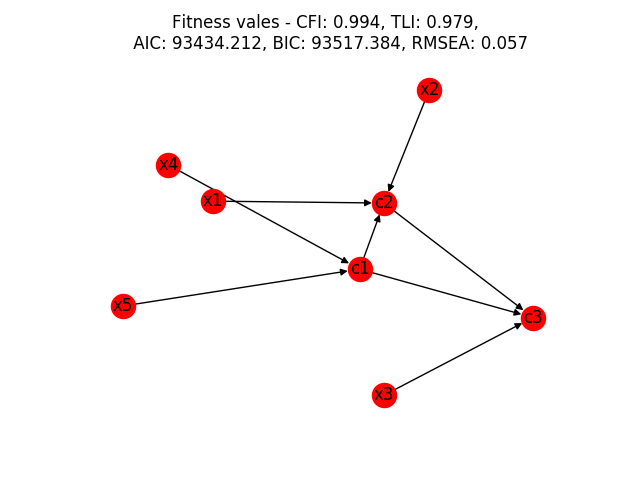
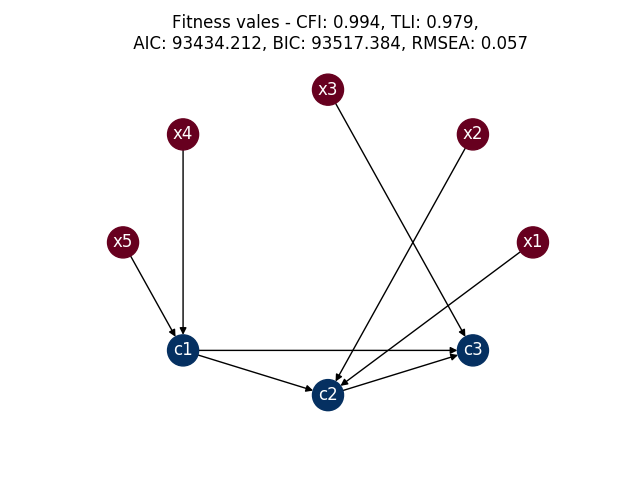
graphs beautified, comments added

diff --git a/src/python/util.py b/src/python/util.py
@@ -8,10 +8,18 @@ import matplotlib.pyplot as plt
 from evaluate import *
 import random
 from copy import deepcopy
-from deap.tools import HallOfFame
+from deap.tools import HallOfFame, Statistics, MultiStatistics
 import itertools
+import numpy as np
+import pandas as pd
 
 def extract_model(individual):
+    """ Convert netwrokx graph to 'lavaan' specific SEM model string
+
+    :param individual: an instance of individual (networkx graph)
+    :return: string,
+        lavaan specific model description
+    """
     measurement_model = []
     structural_model = []
     for node in individual._pred:
@@ -35,6 +43,13 @@ def extract_model(individual):
 
 
 def extract_fitness(fitness_str):
+    """ Parse results from fitness string
+
+    :param fitness_str: String
+        String received from R
+    :return: tuple
+        fitness values as a tuple
+    """
     fitness = re.findall("\d+\.\d+", fitness_str)
     if fitness:
         fitness = [float(i) for i in fitness]
@@ -42,13 +57,20 @@ def extract_fitness(fitness_str):
 
 
 def compose_SEM(individual):
+    """ Plot / save an individual (networkx graph) using plt
+    Future Work: make graph generation dynamic
+
+    :param individual: an instance of individual (networkx graph)
+    :return: None
+    """
     if isinstance(individual, HallOfFame):
         for i, ind in enumerate(individual):
             fig = plt.figure()
             plt.title('Fitness vales - CFI: {}, TLI: {}, \n AIC: {}, BIC: {}, RMSEA: {}'.
                       format(ind.fitness.values[0], ind.fitness.values[1], ind.fitness.values[2],
                              ind.fitness.values[3], ind.fitness.values[4]))
-            nx.draw(ind, with_labels=True)
+            values = [0.25 if 'x' in node else 0.75 for node in ind.nodes()]
+            nx.draw_circular(ind, with_labels=True, font_color='white', node_size=500, cmap=plt.get_cmap('RdBu'), node_color=values)
             plt.savefig('../../results/SEM_{}.png'.format(i), format='PNG')
             # plt.show()
     elif isinstance(individual, nx.DiGraph):
@@ -59,6 +81,12 @@ def compose_SEM(individual):
 
 
 def evaluate(individual):
+    """ Evaluation function for evolution
+
+    :param individual: an instance of individual (networkx graph)
+    :return: tuple
+        fitness values as tuple
+    """
     model = extract_model(individual)
     fitness = (0, 0, 0, 0, 1)
     try:
@@ -70,6 +98,18 @@ def evaluate(individual):
 
 
 def mate(concepts, variables, individual_1, individual_2):
+    """ Mate operator for evolution
+    Switches structural model between two individuals
+
+    :param concepts: list
+        list of strings as probable concepts
+    :param variables: list
+        list of variables in the dataset
+    :param individual_1: an instance of individual (networkx graph)
+    :param individual_2: an instance of individual (networkx graph)
+    :return: tuple
+        tuple of two new offsprings (an instance of individuals (networkx graph))
+    """
     ind_1 = deepcopy(individual_1)
     ind_2 = deepcopy(individual_2)
     c_1 = individual_1.subgraph(concepts)
@@ -84,6 +124,18 @@ def mate(concepts, variables, individual_1, individual_2):
 
 
 def mutate(concepts,variables, ind):
+    """ Mutate operator for evolution
+    Between two randomly chosen concepts, exchanges two variables between concepts.
+    and reverses direction between those concepts
+
+    :param concepts: list
+        list of strings as probable concepts
+    :param variables: list
+        list of variables in the dataset
+    :param ind: an instance of individual (networkx graph)
+    :return: tuple
+        tuple of one offspring (an instance of individual (networkx graph))
+    """
     individual = deepcopy(ind)
     concept_1 = random.choice(concepts)
     concept_2 = random.choice(concepts)
@@ -108,8 +160,18 @@ def mutate(concepts,variables, ind):
     individual = validate_individual(concepts, variables, individual)
     return individual,
 
-#TODO --
+
 def validate_individual(concepts,variables, ind):
+    """ Validates individual
+    Verify whether there is at least and at most one edge between all nodes
+
+    :param concepts: list
+        list of strings as probable concepts
+    :param variables: list
+        list of variables in the dataset
+    :param ind: an instance of individual (networkx graph)
+    :return: an instance of individual (networkx graph)
+    """
     individual = deepcopy(ind)
     # remove redundant edges from measurement model
     for var in variables:
@@ -127,22 +189,76 @@ def validate_individual(concepts,variables, ind):
         elif edges < 1:
             individual.add_edge(pairs[0], pairs[1])
 
-
-
     return individual
 
 
+def create_multistatistics(fitness_indices):
+    """ create multi statistics for evolution
+
+    :param fitness_indices: list
+        list of strings representing fit indices. These should be in same order as used during evolution
+    :return: an instance of deap.tools.MultiStatistics
+    """
+    statistics = {}
+    for i, fit_index in enumerate(fitness_indices):
+        stats = create_statistics(fit_index, i)
+        statistics[fit_index] = stats
+    multi = MultiStatistics(statistics)
+    return multi
+
+def create_statistics(fit_index, index):
+    """ Create deap.tools.Statistics instance for the given name and index
+
+    :param fit_index: string
+        name for the statistic
+    :param index: int
+        This is the index of the statistic in a multi-objective fitness tuple
+    :return: deap.tools.Statistics
+    """
+    stats = Statistics(lambda ind: ind.fitness.values[index])
+    stats.register("{}_avg".format(fit_index), np.mean)
+    stats.register("{}_std".format(fit_index), np.std)
+    stats.register("{}_min".format(fit_index), np.min)
+    stats.register("{}_max".format(fit_index), np.max)
+    return stats
+
+def save_log(fitness_indices, logbook):
+    """ Save evolutionary log to csv
+
+    :param fitness_indices: list
+        List of strings representing fitnesses in a multi objective fitness scenario
+    :param logbook:  an instance of deap.tools.Logbook
+    :return: None
+    """
+    for fit_index in fitness_indices:
+        fit_df = pd.DataFrame(logbook.chapters[fit_index])
+        generation_df = pd.DataFrame(logbook)
+        result = pd.concat([fit_df, generation_df],  sort=False, axis=1)
+        result.to_csv('../../results/{}_log.csv'.format(fit_index))
 
 
+def plot_logbook(logbook):
+    gen = logbook.select("gen")
+    fit_mins = logbook.chapters["cfi"].select("min")
+    size_avgs = logbook.chapters["cfi"].select("max")
+    fig, ax1 = plt.subplots()
+    line1 = ax1.plot(gen, fit_mins, "b-", label="Minimum Fitness")
+    ax1.set_xlabel("Generation")
+    ax1.set_ylabel("CFI", color="b")
+    for tl in ax1.get_yticklabels():
+        tl.set_color("b")
 
+    ax2 = ax1.twinx()
+    line2 = ax2.plot(gen, size_avgs, "r-", label="Maxiimum Fitness")
+    ax2.set_ylabel("Size", color="r")
+    for tl in ax2.get_yticklabels():
+        tl.set_color("r")
 
+    lns = line1 + line2
+    labs = [l.get_label() for l in lns]
+    ax1.legend(lns, labs, loc="center right")
 
-
-
-
-
-
-
+    plt.show()
 
 
 

diff --git a/src/python/main.py b/src/python/main.py
@@ -2,7 +2,7 @@
 __author__ = "Prashant Shivarm Bhat"
 __email__ = "PrashantShivaram@outlook.com"
 import warnings
-
+import pickle
 warnings.simplefilter("ignore")
 
 import abc
@@ -24,6 +24,17 @@ class AllRelations(BaseEstimator, TransformerMixin, metaclass=abc.ABCMeta):
 
     def __init__(self, generation=5, pop_size=20, mutation_rate=0.3,
                  crossover_rate=0.7):
+        """ Main class for creating SEM model
+
+        :param generation: int,
+            number of generations to be run during evolution
+        :param pop_size: int
+            number of individuals in the initial population
+        :param mutation_rate: float
+            Percentage of individuals in the population to be mutated during evolution
+        :param crossover_rate: float
+            Percentage of individuals in the population to be mated during evolution
+        """
 
         self._generation = generation
         self._pop_size = pop_size
@@ -31,10 +42,15 @@ class AllRelations(BaseEstimator, TransformerMixin, metaclass=abc.ABCMeta):
         self._crossover_rate = crossover_rate
         self._variables = ['x1', 'x2', 'x3', 'x4', 'x5']
         self._concepts = ['c1', 'c2', 'c3']
+        self._fit_indices = ["cfi","tli", "aic", "bic", "rmsea"]
         self._pop = None
         self._toolbox = None
 
     def _setup_toolbox(self):
+        """ Sets up DEAP toolbox for evolution
+
+        :return: None
+        """
         with warnings.catch_warnings():
             warnings.simplefilter('ignore')
             creator.create('FitnessMulti', base.Fitness, weights=(1.0, 1.0, 0.5, 0.5, -0.5))
@@ -49,6 +65,12 @@ class AllRelations(BaseEstimator, TransformerMixin, metaclass=abc.ABCMeta):
         self._toolbox.register('mutate', mutate, self._concepts, self._variables)
 
     def _initialize_SEM(self, individual):
+        """ Initialises individual with random connections
+        Random connections are created separately for measurement and structural model
+
+        :param individual: an instance of individual (networkx graph)
+        :return:
+        """
         variables = deepcopy(self._variables)
         pool = cycle(self._concepts)
         # measurement model
@@ -65,6 +87,11 @@ class AllRelations(BaseEstimator, TransformerMixin, metaclass=abc.ABCMeta):
             individual.add_edge(pairs[0], pairs[1])
 
     def _create_individual(self):
+        """ Create a individual (an instance of networkx DiGraph)
+
+        :return: Individual
+            an instance of networkx DiGraph
+        """
         ind = nx.DiGraph()
         ind.add_nodes_from(self._variables)
         ind.add_nodes_from(self._concepts)
@@ -72,26 +99,31 @@ class AllRelations(BaseEstimator, TransformerMixin, metaclass=abc.ABCMeta):
         return ind
 
     def _evolve(self):
+        """ Start evolution
+
+        :return: None
+        """
         print('Start of evolution')
         self._hof = tools.HallOfFame(10)
-        stats = tools.Statistics(lambda ind: ind.fitness.values[0])
-        stats.register("avg", np.mean)
-        stats.register("std", np.std)
-        stats.register("min", np.min)
-        stats.register("max", np.max)
+        multi = create_multistatistics(self._fit_indices)
         pop, log = algorithms.eaSimple(self._pop, toolbox=self._toolbox,
                                        cxpb=self._crossover_rate, mutpb=self._mutation_rate, ngen=self._generation,
-                                       stats=stats, halloffame=self._hof, verbose=True)
-        log_dataframe = pd.DataFrame(log)
-        log_dataframe.to_csv('../../results/generation_log.csv')
+                                       stats=multi, halloffame=self._hof, verbose=True)
+        save_log(self._fit_indices, log)
         compose_SEM(self._hof)
 
     def fit(self):
+        """ Public method to start evolutionary approach to SEM modelling
+        Results will be stored under ../../results
+
+        :return: None
+        """
         self._setup_toolbox()
         self._pop = self._toolbox.population(self._pop_size)
         self._evolve()
-        pass
 
 
-all = AllRelations(generation=1, pop_size=20)
+
+
+all = AllRelations(generation=1, pop_size=5)
 all.fit()
